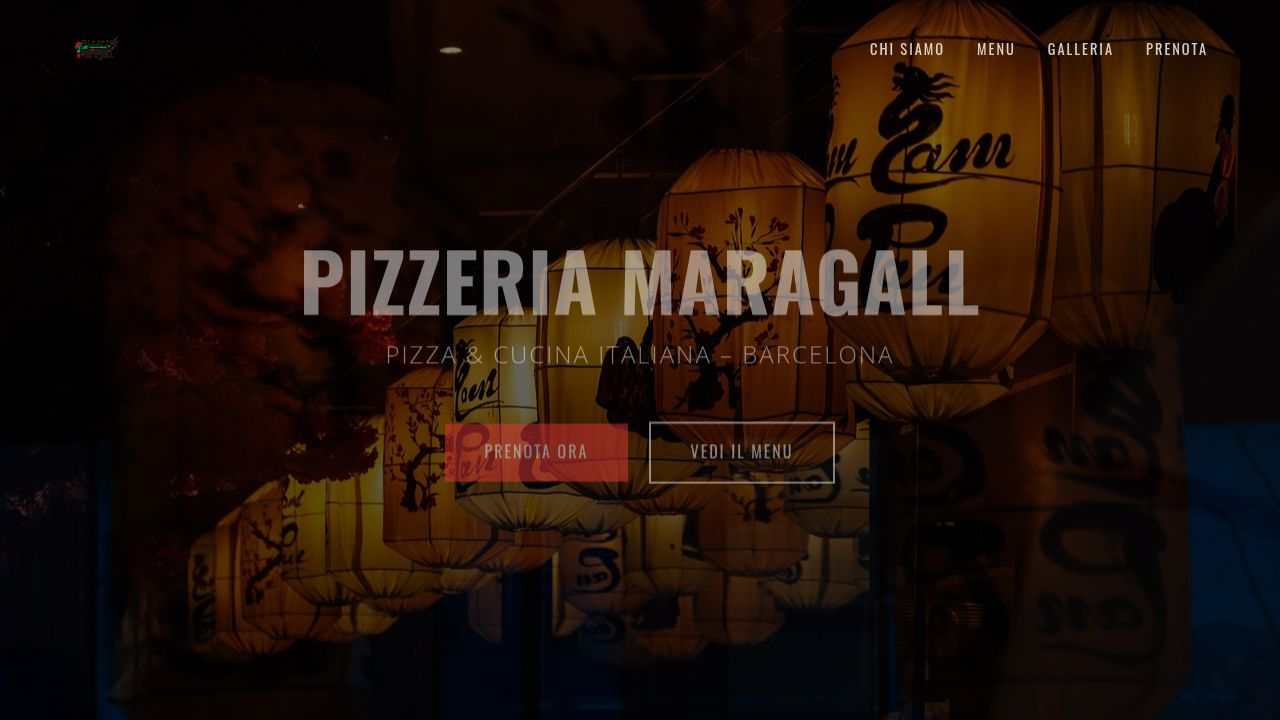
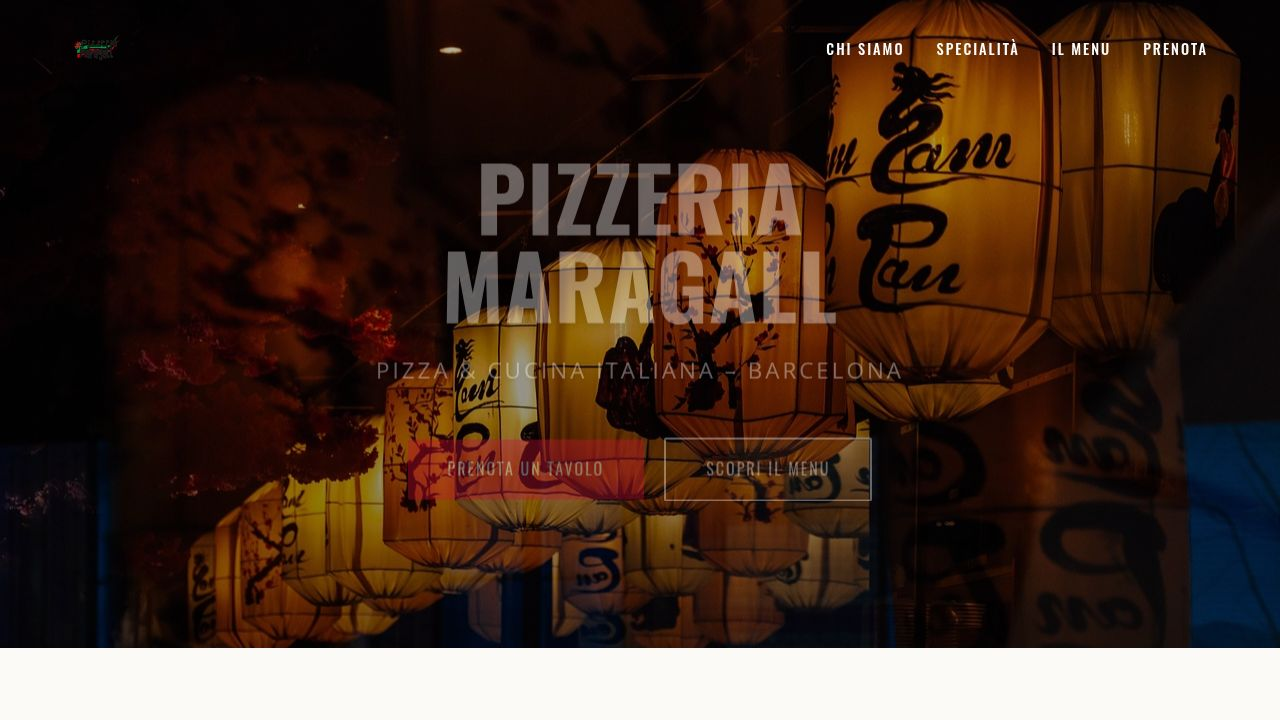
Update website content and section titles
Modify HTML to rename sections, update text, add a new takeaway section, and adjust menu buttons.

Replit-Commit-Author: Agent
Replit-Commit-Session-Id: 2659b293-f83f-4636-bf38-354064396630
Replit-Commit-Checkpoint-Type: full_checkpoint
Replit-Commit-Event-Id: 88ff024a-d5df-449b-8dd6-3bc0f9a15ceb
Replit-Commit-Screenshot-Url: https://storage.googleapis.com/screenshot-production-us-central1/552194cd-51ea-4fdb-88ce-0b86f85226ba/2659b293-f83f-4636-bf38-354064396630/fZdbMLt
Replit-Helium-Checkpoint-Created: true

diff --git a/client/index.html b/client/index.html
@@ -24,7 +24,7 @@
                 <img src="/assets/logo.png" alt="Pizzeria Maragall Logo">
             </a>
             <div class="nav-links">
-                <a href="#about">STORIA</a>
+                <a href="#about">CHI SIAMO</a>
                 <a href="#pizza-mese">SPECIALITÀ</a>
                 <a href="#menu">IL MENU</a>
                 <a href="#contact" class="btn-link">PRENOTA</a>
@@ -50,15 +50,15 @@
     <!-- About Section -->
     <section id="about" class="about fade-in-section">
         <div class="container">
-            <h2 class="section-title">PASSIONE <span class="text-accent-green">ITALIANA</span></h2>
-            <p class="section-subtitle">Dal 2012, il vero sapore di casa nel quartiere Sant Andreu</p>
+            <h2 class="section-title">CHI SIAMO</h2>
+            <p class="section-subtitle">Passione per la pizza e per le persone</p>
             
             <div class="about-text">
                 <p>
-                    Situata a Carrer de Juan de Garay, 8, la Pizzeria Maragall è il punto di riferimento per chi cerca 
-                    la vera pizza italiana a Barcellona. Il nostro segreto? Un impasto sottile e croccante cotto 
-                    nel forno a legna, ingredienti freschissimi e l'amore dello Chef Fabrizio per le combinazioni uniche.
-                    Che tu preferisca i grandi classici o sapori più audaci, qui ti sentirai come in Italia.
+                    Più di una semplice pizzeria, siamo una famiglia. La nostra squadra lavora ogni giorno con un unico obiettivo: 
+                    farvi sentire a casa. Crediamo che il cibo sia condivisione e gioia. In un'atmosfera calda e informale, 
+                    tipica delle pizzerie di quartiere italiane, vi accogliamo con il sorriso e con la passione di chi ama ciò che fa. 
+                    Vieni a trovarci e diventa parte della nostra storia.
                 </p>
             </div>
 
@@ -75,7 +75,7 @@
         <div class="container">
             <div class="pizza-mese-container">
                 <div class="pizza-mese-content">
-                    <span class="badge">SPECIALITÀ DELLA CASA</span>
+                    <span class="badge">🍕 Pizza del Mes</span>
                     <h2>PIZZA MARAGALL</h2>
                     <p class="pizza-mese-desc">
                         La nostra firma. Una combinazione perfetta di sapori equilibrati che ha conquistato 
@@ -155,8 +155,22 @@
                 </div>
             </div>
             
-            <div style="text-align: center; margin-top: 4rem;">
-                <a href="https://pizzeriamaragall.eatbu.com/?lang=it#menu" target="_blank" class="btn btn-secondary">VEDI MENU COMPLETO ONLINE</a>
+            <div style="text-align: center; margin-top: 4rem; display: flex; justify-content: center; gap: 1rem; flex-wrap: wrap;">
+                <a href="#" class="btn btn-secondary">Menu (Català / Castellano)</a>
+                <a href="#" class="btn btn-secondary">Menu (English)</a>
+            </div>
+        </div>
+    </section>
+
+    <!-- Pizza para llevar Section -->
+    <section id="takeaway" class="menu fade-in-section" style="background-color: white; padding: 6rem 0;">
+        <div class="container" style="text-align: center;">
+            <h2 class="section-title">🍕 Pizza para llevar</h2>
+            <p class="section-subtitle">Gustala comodamente a casa tua</p>
+            
+            <div style="display: flex; justify-content: center; gap: 2rem; flex-wrap: wrap; margin-top: 2rem;">
+                <a href="tel:[phone redacted]" class="btn">Chiama e ordina</a>
+                <a href="https://glovoapp.com/es/es/barcelona/stores/pizzeria-maragall-barcelona" target="_blank" class="btn btn-outline" style="border-color: var(--accent-red); color: var(--accent-red);">Ordina su Glovo</a>
             </div>
         </div>
     </section>